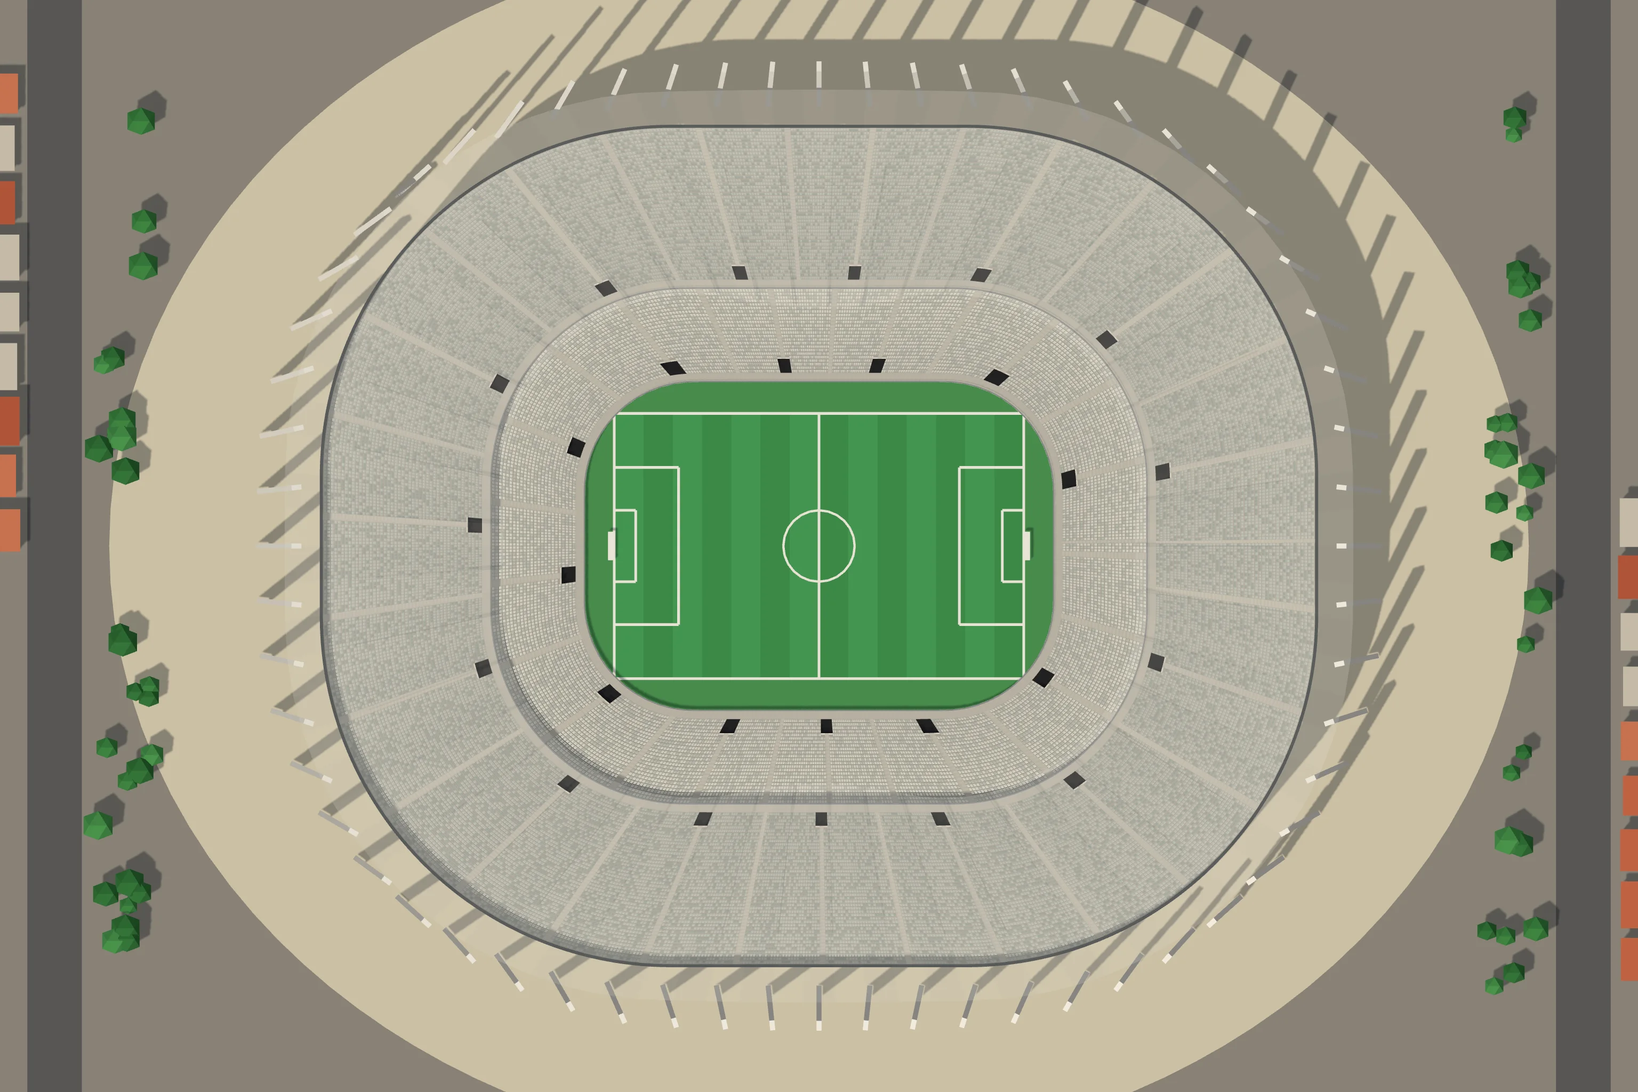
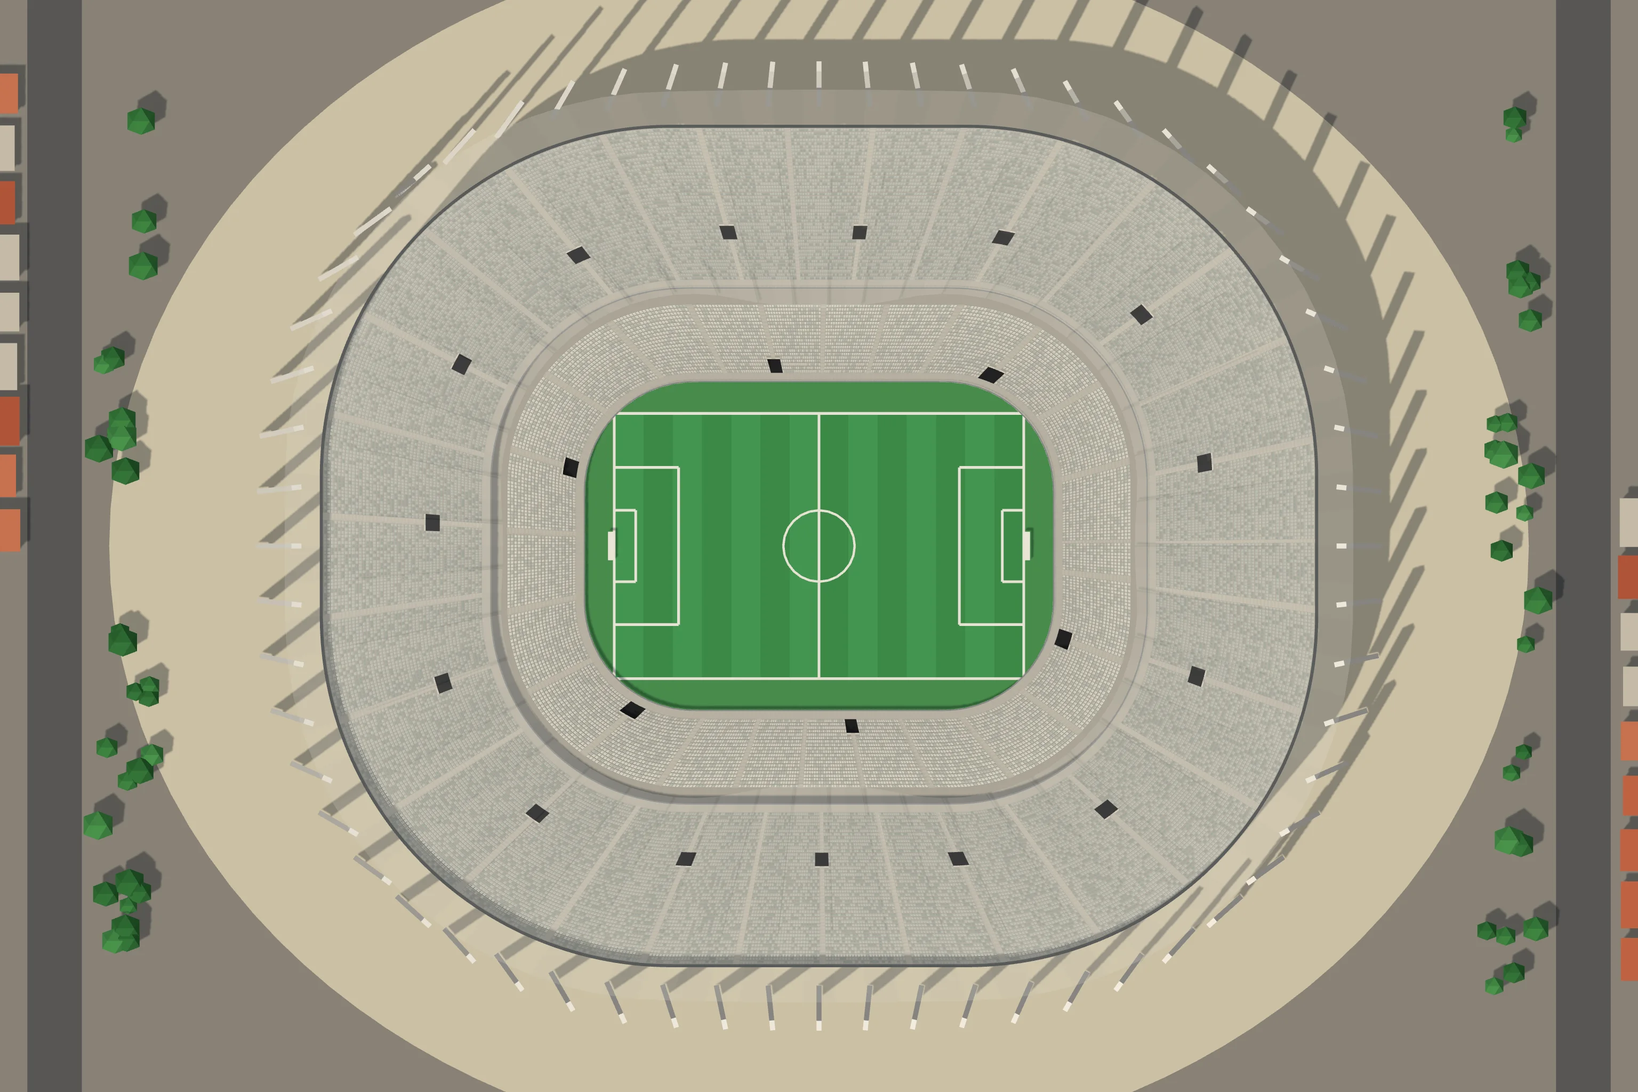
Arena da Baixada e Castelão: o lance de baixo é acessado por cima, pelo anel de circulação; bocas só no lance de cima
Claude-Session: https://claude.ai/code/session_019hwwMAyyP7ZAvyq6wYTetr

diff --git a/cenario3d/dados/estadios_cenas.js b/cenario3d/dados/estadios_cenas.js
@@ -16,7 +16,7 @@ window.__ESTADIOS = {
    "visitante": 3
   },
   "foto": {
-   "imagem": "img/cenas/estadio_castelao.webp?v=c75921e5",
+   "imagem": "img/cenas/estadio_castelao.webp?v=e406a82c",
    "mascara": "384;384;384;384;384;384;384;384;384;384;384;384;384;384;384;384;384;384;384;384;384;384;384;384;384;384;384;384;384;384;147,90,147;141,102,141;136,112,136;133,118,133;130,124,130;127,130,127;125,134,125;122,140,122;120,144,120;118,148,118;117,150,117;115,154,115;113,158,113;112,160,112;110,164,110;109,166,109;108,168,108;106,172,106;105,174,105;104,176,104;103,178,103;102,180,102;100,184,100;99,186,99;98,188,98;98,188,98;97,190,97;96,192,96;95,194,95;94,196,94;93,198,93;92,200,92;92,200,92;91,202,91;90,204,90;90,204,90;89,206,89;88,208,88;88,208,88;87,210,87;86,212,86;86,212,86;85,214,85;85,214,85;84,216,84;84,216,84;83,218,83;83,218,83;82,220,82;82,220,82;82,220,82;81,222,81;81,222,81;80,224,80;80,224,80;80,224,80;79,226,79;79,226,79;79,226,79;79,79,68,79,79;78,76,76,76,78;78,74,80,74,78;78,72,84,72,78;78,70,88,70,78;77,70,90,70,77;77,69,92,69,77;77,68,94,68,77;77,67,96,67,77;77,66,98,66,77;76,66,100,66,76;76,65,102,65,76;76,65,102,65,76;76,64,104,64,76;76,63,106,63,76;76,63,106,63,76;76,63,106,63,76;76,62,108,62,76;76,62,108,62,76;76,61,110,61,76;76,61,110,61,76;76,61,110,61,76;76,61,110,61,76;76,61,110,61,76;76,61,110,61,76;76,61,110,61,76;76,61,110,61,76;76,61,110,61,76;76,61,110,61,76;76,61,110,61,76;76,61,110,61,76;76,61,110,61,76;76,61,110,61,76;76,61,110,61,76;76,61,110,61,76;76,61,110,61,76;76,61,110,61,76;76,61,110,61,76;76,61,110,61,76;76,61,110,61,76;76,61,110,61,76;76,61,110,61,76;76,61,110,61,76;76,61,110,61,76;76,61,110,61,76;76,61,110,61,76;76,61,110,61,76;76,61,110,61,76;76,61,110,61,76;76,61,110,61,76;76,61,110,61,76;76,61,110,61,76;76,61,110,61,76;76,61,110,61,76;76,61,110,61,76;76,61,110,61,76;76,61,110,61,76;76,61,110,61,76;76,61,110,61,76;76,62,108,62,76;76,62,108,62,76;76,63,106,63,76;76,63,106,63,76;76,63,106,63,76;76,64,104,64,76;76,65,102,65,76;76,65,102,65,76;76,66,100,66,76;77,66,98,66,77;77,67,96,67,77;77,68,94,68,77;77,69,92,69,77;77,70,90,70,77;78,70,88,70,78;78,72,84,72,78;78,74,80,74,78;78,76,76,76,78;79,79,68,79,79;79,226,79;79,226,79;79,226,79;80,224,80;80,224,80;80,224,80;81,222,81;81,222,81;82,220,82;82,220,82;82,220,82;83,218,83;83,218,83;84,216,84;84,216,84;85,214,85;85,214,85;86,212,86;86,212,86;87,210,87;88,208,88;88,208,88;89,206,89;90,204,90;90,204,90;91,202,91;92,200,92;92,200,92;93,198,93;94,196,94;95,194,95;96,192,96;97,190,97;98,188,98;98,188,98;99,186,99;100,184,100;102,180,102;103,178,103;104,176,104;105,174,105;106,172,106;108,168,108;109,166,109;110,164,110;112,160,112;113,158,113;115,154,115;117,150,117;118,148,118;120,144,120;122,140,122;125,134,125;127,130,127;130,124,130;133,118,133;136,112,136;141,102,141;147,90,147;384;384;384;384;384;384;384;384;384;384;384;384;384;384;384;384;384;384;384;384;384;384;384;384;384;384;384;384;384;384"
   },
   "cena": {
@@ -135,11 +135,11 @@ window.__ESTADIOS = {
      "lado": "mandante",
      "raio": 40,
      "dir": [
-      -0.99,
-      0.11
+      -0.95,
+      -0.3
      ],
-     "x": 1068,
-     "y": 1078
+     "x": 1072,
+     "y": 878
     },
     {
      "id": "portao_visitante",
@@ -147,11 +147,11 @@ window.__ESTADIOS = {
      "lado": "visitante",
      "raio": 40,
      "dir": [
-      0.97,
-      -0.26
+      0.93,
+      0.36
      ],
-     "x": 2003,
-     "y": 900
+     "x": 1993,
+     "y": 1198
     }
    ],
    "pmPostos": [
@@ -4489,7 +4489,7 @@ window.__ESTADIOS = {
    "visitante": 3
   },
   "foto": {
-   "imagem": "img/cenas/estadio_arena_da_baixada.webp?v=a0515431",
+   "imagem": "img/cenas/estadio_arena_da_baixada.webp?v=d3104c48",
    "mascara": "384;384;384;384;384;384;384;384;384;384;384;384;384;384;384;384;384;384;384;384;384;384;384;384;384;384;384;384;384;384;118,148,118;112,160,112;109,166,109;106,172,106;103,178,103;101,182,101;99,186,99;97,190,97;95,194,95;94,196,94;92,200,92;91,202,91;90,204,90;88,208,88;87,210,87;86,212,86;85,214,85;84,216,84;83,218,83;82,220,82;82,220,82;81,222,81;80,224,80;79,226,79;79,226,79;78,228,78;77,230,77;77,230,77;76,232,76;76,232,76;75,234,75;75,234,75;74,236,74;74,236,74;73,238,73;73,238,73;72,240,72;72,240,72;72,240,72;71,242,71;71,242,71;71,242,71;71,242,71;70,51,142,51,70;70,49,146,49,70;70,47,150,47,70;70,46,152,46,70;69,46,154,46,69;69,45,156,45,69;69,44,158,44,69;69,44,158,44,69;69,43,160,43,69;69,43,160,43,69;69,43,160,43,69;69,42,162,42,69;69,42,162,42,69;69,42,162,42,69;69,42,162,42,69;69,42,162,42,69;69,42,162,42,69;69,42,162,42,69;69,42,162,42,69;69,42,162,42,69;69,42,162,42,69;69,42,162,42,69;69,42,162,42,69;69,42,162,42,69;69,42,162,42,69;69,42,162,42,69;69,42,162,42,69;69,42,162,42,69;69,42,162,42,69;69,42,162,42,69;69,42,162,42,69;69,42,162,42,69;69,42,162,42,69;69,42,162,42,69;69,42,162,42,69;69,42,162,42,69;69,42,162,42,69;69,42,162,42,69;69,42,162,42,69;69,42,162,42,69;69,42,162,42,69;69,42,162,42,69;69,42,162,42,69;69,42,162,42,69;69,42,162,42,69;69,42,162,42,69;69,42,162,42,69;69,42,162,42,69;69,42,162,42,69;69,42,162,42,69;69,42,162,42,69;69,42,162,42,69;69,42,162,42,69;69,42,162,42,69;69,42,162,42,69;69,42,162,42,69;69,42,162,42,69;69,42,162,42,69;69,42,162,42,69;69,42,162,42,69;69,42,162,42,69;69,42,162,42,69;69,42,162,42,69;69,42,162,42,69;69,42,162,42,69;69,42,162,42,69;69,42,162,42,69;69,42,162,42,69;69,42,162,42,69;69,42,162,42,69;69,42,162,42,69;69,42,162,42,69;69,42,162,42,69;69,42,162,42,69;69,42,162,42,69;69,42,162,42,69;69,42,162,42,69;69,42,162,42,69;69,42,162,42,69;69,42,162,42,69;69,42,162,42,69;69,42,162,42,69;69,42,162,42,69;69,42,162,42,69;69,42,162,42,69;69,42,162,42,69;69,42,162,42,69;69,42,162,42,69;69,42,162,42,69;69,42,162,42,69;69,42,162,42,69;69,42,162,42,69;69,42,162,42,69;69,42,162,42,69;69,42,162,42,69;69,42,162,42,69;69,42,162,42,69;69,42,162,42,69;69,42,162,42,69;69,43,160,43,69;69,43,160,43,69;69,43,160,43,69;69,44,158,44,69;69,44,158,44,69;69,45,156,45,69;69,46,154,46,69;70,46,152,46,70;70,47,150,47,70;70,49,146,49,70;70,51,142,51,70;71,242,71;71,242,71;71,242,71;71,242,71;72,240,72;72,240,72;72,240,72;73,238,73;73,238,73;74,236,74;74,236,74;75,234,75;75,234,75;76,232,76;76,232,76;77,230,77;77,230,77;78,228,78;79,226,79;79,226,79;80,224,80;81,222,81;82,220,82;82,220,82;83,218,83;84,216,84;85,214,85;86,212,86;87,210,87;88,208,88;90,204,90;91,202,91;92,200,92;94,196,94;95,194,95;97,190,97;99,186,99;101,182,101;103,178,103;106,172,106;109,166,109;112,160,112;118,148,118;384;384;384;384;384;384;384;384;384;384;384;384;384;384;384;384;384;384;384;384;384;384;384;384;384;384;384;384;384;384"
   },
   "cena": {
@@ -4608,11 +4608,11 @@ window.__ESTADIOS = {
      "lado": "mandante",
      "raio": 40,
      "dir": [
-      0.98,
-      -0.19
+      1,
+      0
      ],
-     "x": 2219,
-     "y": 900
+     "x": 2493,
+     "y": 1024
     },
     {
      "id": "portao_visitante",
@@ -4620,11 +4620,11 @@ window.__ESTADIOS = {
      "lado": "visitante",
      "raio": 40,
      "dir": [
-      -0.85,
-      0.53
+      -0.87,
+      0.5
      ],
-     "x": 878,
-     "y": 1438
+     "x": 627,
+     "y": 1549
     }
    ],
    "pmPostos": [

diff --git a/cenario3d/planta.html b/cenario3d/planta.html
@@ -289,24 +289,24 @@ button:focus-visible, input:focus-visible { outline: 2px solid var(--selecao); o
 
 <script type="module">
 import * as THREE from 'https://cdn.jsdelivr.net/npm/three@0.160.0/build/three.module.min.js';
-import { planoDaCasa, montarCasa, juntarBlocos, lugarDoDecalque, placasDoLote, segmentosDoMuro, carrosDoEstacionamento, portaoDoEstacionamento } from './js/casas3d.js?v=4a961c6d5b';
-import { montarModelos } from './js/modelos3d.js?v=4a961c6d5b';
-import { moldeDaPeca, comTransformador } from './js/props3d.js?v=4a961c6d5b';
-import { ATLAS } from './js/modelos_atlas.js?v=4a961c6d5b';
-import { Construtor, sorteio } from './js/construtor3d.js?v=4a961c6d5b';
-import { gerarProposta, MAPAS, MAPA_DO_PORTE, RUA, LONGE_DO_ESTADIO_M, cisaoDaPraca, VAO_CIDADES_M, PRAIA_A_MAIS } from './js/proposta.js?v=4a961c6d5b';
-import { montarSede, nivelQueCabe } from './js/sede3d.js?v=4a961c6d5b';
-import { onibus as onibusDetalhe, juntar as juntarDetalhe } from './js/detalhe3d.js?v=4a961c6d5b';
-import { montarLoteDeVeraneio, plantaDoLote, festaNoMundo, noMundoDoLote, cenaDaFesta, detalheDaCasaDaFesta } from './js/veraneio3d.js?v=4a961c6d5b';
-import { montarCaravana, cenaDaCaravana } from './js/caravana3d.js?v=4a961c6d5b';
-import { montarEstacao, montarTunel, montarCarro, TREM } from './js/metro3d.js?v=4a961c6d5b';
-import { montarShopping, montarDelegacia, montarPraca, montarIgreja, montarEscola, montarHospital } from './js/equip3d.js?v=4a961c6d5b';
-import { montarEquipAntigo, TIPOS_ANTIGOS } from './js/equip_antigo3d.js?v=4a961c6d5b';
-import { PECAS_PRAIA, montarPecaDaPraia } from './js/praia3d.js?v=4a961c6d5b';
-import { ESPECIES_LP, FLORA_LP, montarArvoreLowpoly, montarAsDez, facesDaArvore, especieLowpolyDe } from './js/arvores_lowpoly.js?v=4a961c6d5b';
-import { plantarMato, montarMato, LONGE_M, DENSIDADE, LADRILHO_M } from './js/mato3d.js?v=4a961c6d5b';
-import { ESTADIOS_JOGO, montarEstadioJogo, glbDoEstadio, cortarEstadio, plantaDoEstadio, modeloDaLotacao, nomeDoLetreiro, nomeComAcento, marcaDoEstadio, BOCAS_DOS_PORTOES, BILHETERIAS_DA_RUA } from './js/estadios3d.js?v=4a961c6d5b';
-import { PECAS_AMBULANTES, montarAmbulante } from './js/ambulantes3d.js?v=4a961c6d5b';
+import { planoDaCasa, montarCasa, juntarBlocos, lugarDoDecalque, placasDoLote, segmentosDoMuro, carrosDoEstacionamento, portaoDoEstacionamento } from './js/casas3d.js?v=d539b5da61';
+import { montarModelos } from './js/modelos3d.js?v=d539b5da61';
+import { moldeDaPeca, comTransformador } from './js/props3d.js?v=d539b5da61';
+import { ATLAS } from './js/modelos_atlas.js?v=d539b5da61';
+import { Construtor, sorteio } from './js/construtor3d.js?v=d539b5da61';
+import { gerarProposta, MAPAS, MAPA_DO_PORTE, RUA, LONGE_DO_ESTADIO_M, cisaoDaPraca, VAO_CIDADES_M, PRAIA_A_MAIS } from './js/proposta.js?v=d539b5da61';
+import { montarSede, nivelQueCabe } from './js/sede3d.js?v=d539b5da61';
+import { onibus as onibusDetalhe, juntar as juntarDetalhe } from './js/detalhe3d.js?v=d539b5da61';
+import { montarLoteDeVeraneio, plantaDoLote, festaNoMundo, noMundoDoLote, cenaDaFesta, detalheDaCasaDaFesta } from './js/veraneio3d.js?v=d539b5da61';
+import { montarCaravana, cenaDaCaravana } from './js/caravana3d.js?v=d539b5da61';
+import { montarEstacao, montarTunel, montarCarro, TREM } from './js/metro3d.js?v=d539b5da61';
+import { montarShopping, montarDelegacia, montarPraca, montarIgreja, montarEscola, montarHospital } from './js/equip3d.js?v=d539b5da61';
+import { montarEquipAntigo, TIPOS_ANTIGOS } from './js/equip_antigo3d.js?v=d539b5da61';
+import { PECAS_PRAIA, montarPecaDaPraia } from './js/praia3d.js?v=d539b5da61';
+import { ESPECIES_LP, FLORA_LP, montarArvoreLowpoly, montarAsDez, facesDaArvore, especieLowpolyDe } from './js/arvores_lowpoly.js?v=d539b5da61';
+import { plantarMato, montarMato, LONGE_M, DENSIDADE, LADRILHO_M } from './js/mato3d.js?v=d539b5da61';
+import { ESTADIOS_JOGO, montarEstadioJogo, glbDoEstadio, cortarEstadio, plantaDoEstadio, modeloDaLotacao, nomeDoLetreiro, nomeComAcento, marcaDoEstadio, BOCAS_DOS_PORTOES, BILHETERIAS_DA_RUA } from './js/estadios3d.js?v=d539b5da61';
+import { PECAS_AMBULANTES, montarAmbulante } from './js/ambulantes3d.js?v=d539b5da61';
 
 const $ = id => document.getElementById(id);
 const aviso = $('aviso');
@@ -323,25 +323,25 @@ function carregarScript(src) {
 }
 window.TO = window.TO || { dados: {} };
 try {
-  await carregarScript('dados/torcidas.js?v=4a961c6d5b');
-  await carregarScript('dados/times.js?v=4a961c6d5b');
-  await carregarScript('dados/cena_estadio.js?v=4a961c6d5b');
-  await carregarScript('dados/cidades.js?v=4a961c6d5b');
-  await carregarScript('dados/estadios.js?v=4a961c6d5b');
-  await carregarScript('dados/escudos.js?v=4a961c6d5b');
+  await carregarScript('dados/torcidas.js?v=d539b5da61');
+  await carregarScript('dados/times.js?v=d539b5da61');
+  await carregarScript('dados/cena_estadio.js?v=d539b5da61');
+  await carregarScript('dados/cidades.js?v=d539b5da61');
+  await carregarScript('dados/estadios.js?v=d539b5da61');
+  await carregarScript('dados/escudos.js?v=d539b5da61');
   /* o manifesto das faixas de verdade (a arte do dono, 29/09/2026): a arquibancada estende a da torcida */
-  await carregarScript('dados/faixas.js?v=4a961c6d5b').catch(() => {});
+  await carregarScript('dados/faixas.js?v=d539b5da61').catch(() => {});
   /* O DOMÍNIO DOS BAIRROS (o dono, 30/09/2026): as sedes repetidas num
      bairro saem espalhadas (nos dados, na carga) e os bares ganham o
      bairro deles — o mesmo módulo do jogo (js/mundo/dominio.js) */
-  await carregarScript('js/dominio.js?v=4a961c6d5b').catch(() => {});
+  await carregarScript('js/dominio.js?v=d539b5da61').catch(() => {});
 } catch (e) {
   aviso.textContent = 'A planta da cidade não carregou (' + e.message + '). Recarregue a página.';
   throw e;
 }
 /* os PNG dos escudos, embutidos (o montar.sh gera): sem o arquivo, o
    caminho vai direto pra img/escudos/ */
-await carregarScript('dados/escudos_embutidos.js?v=4a961c6d5b').catch(() => {});
+await carregarScript('dados/escudos_embutidos.js?v=d539b5da61').catch(() => {});
 const P = TO.dados.plantaEstadio, K = P.CIDADE, M = P.METRO, CALC = K.CALC;
 /* o mapa da vez (o pequeno, o médio ou o grande, montado pra praça
    escolhida): quem monta é usarMapa, lá embaixo */

diff --git a/cenario3d/js/jogo2d.js b/cenario3d/js/jogo2d.js
@@ -17,7 +17,7 @@
    cartão da partida cai perto da hora da bola e nada do que conta o
    placar passa na frente dele.
    ========================================================= */
-import { CASCA } from './jogo_casca.js?v=4a961c6d5b';
+import { CASCA } from './jogo_casca.js?v=d539b5da61';
 
 const carregarScript = src => new Promise((ok, erro) => {
   const s = document.createElement('script');
@@ -31,17 +31,17 @@ async function montarJogo() {
   caixa.innerHTML = CASCA;
   while (caixa.firstChild) document.body.appendChild(caixa.firstChild);
   /* os escudos, as fotos das praças e as bandeiras embutidos (o `IMG()` do jogo procura aqui antes do caminho) */
-  await carregarScript('dados/imagens_jogo.js?v=4a961c6d5b').catch(() => {});
+  await carregarScript('dados/imagens_jogo.js?v=d539b5da61').catch(() => {});
   /* os estádios low-poly das cenas (ferramentas/estadios/assar.js): antes do jogo, que monta as cenas quando carrega */
-  await carregarScript('dados/estadios_cenas.js?v=4a961c6d5b').catch(() => {});
+  await carregarScript('dados/estadios_cenas.js?v=d539b5da61').catch(() => {});
   /* sem o rolo do feed: a tela entre os jogos é o portal */
   window.TO = window.TO || {};
   TO.semFeed = true;
-  await carregarScript('js/jogo.js?v=4a961c6d5b');
-  await carregarScript('js/portal.js?v=4a961c6d5b').catch(err => console.error('o portal não carregou:', err));
+  await carregarScript('js/jogo.js?v=d539b5da61');
+  await carregarScript('js/portal.js?v=d539b5da61').catch(err => console.error('o portal não carregou:', err));
   /* o boneco das cenas de imagem (os dois níveis afinados, em base64) */
-  if (!TO.dados.bonecoPertoGLB) await carregarScript('dados/boneco_glb.js?v=4a961c6d5b').catch(() => {});
-  await import('./bonecos3_global.js?v=4a961c6d5b').catch(err => console.error('o boneco das cenas não carregou:', err));
+  if (!TO.dados.bonecoPertoGLB) await carregarScript('dados/boneco_glb.js?v=d539b5da61').catch(() => {});
+  await import('./bonecos3_global.js?v=d539b5da61').catch(err => console.error('o boneco das cenas não carregou:', err));
   ligar();
 }
 

diff --git a/cenario3d/jogo.html b/cenario3d/jogo.html
@@ -9,16 +9,16 @@
 <link rel="preconnect" href="https://fonts.googleapis.com">
 <link rel="preconnect" href="https://fonts.gstatic.com" crossorigin>
 <link rel="stylesheet" href="https://fonts.googleapis.com/css2?family=Barlow+Semi+Condensed:wght@500;600;700&family=Barlow:wght@400;500;600&family=IBM+Plex+Mono:wght@400;500&display=swap">
-<link rel="stylesheet" href="css/jogo.css?v=4a961c6d5b">
-<link rel="stylesheet" href="css/jogo3d.css?v=4a961c6d5b">
-<link rel="stylesheet" href="css/portal.css?v=4a961c6d5b">
-<link rel="stylesheet" href="css/telas3d.css?v=4a961c6d5b">
+<link rel="stylesheet" href="css/jogo.css?v=d539b5da61">
+<link rel="stylesheet" href="css/jogo3d.css?v=d539b5da61">
+<link rel="stylesheet" href="css/portal.css?v=d539b5da61">
+<link rel="stylesheet" href="css/telas3d.css?v=d539b5da61">
 <style>
 [hidden] { display: none !important; }
 html, body { height: 100%; margin: 0; }
 </style>
 </head>
 <body class="jogo3d">
-<script type="module" src="js/jogo2d.js?v=4a961c6d5b"></script>
+<script type="module" src="js/jogo2d.js?v=d539b5da61"></script>
 </body>
 </html>

diff --git a/cenario3d/js/casas3d.js b/cenario3d/js/casas3d.js
@@ -60,10 +60,10 @@
    avançam (`rec`), e o letreiro, a pixação e a falha de reboco do
    bairro vão pro plano dessa parede, não pro da divisa.
    ========================================================= */
-import { Construtor, METRO, mureta, toldo, arSplit, sorteio } from './construtor3d.js?v=4a961c6d5b';
-import { ATLAS } from './modelos_atlas.js?v=4a961c6d5b';
+import { Construtor, METRO, mureta, toldo, arSplit, sorteio } from './construtor3d.js?v=d539b5da61';
+import { ATLAS } from './modelos_atlas.js?v=d539b5da61';
 /* as lojas do assalto (lojas3d.js): modelos de lote como os outros */
-import { TIPOS_LOJA, REC_LOJA, placaDaLoja } from './lojas3d.js?v=4a961c6d5b';
+import { TIPOS_LOJA, REC_LOJA, placaDaLoja } from './lojas3d.js?v=d539b5da61';
 
 /* o arquivo de cada folha, pro bairro montar o material dele */
 export const arquivoDaFolha = folha => ATLAS[folha].arquivo;

diff --git a/cenario3d/js/ambulantes3d.js b/cenario3d/js/ambulantes3d.js
@@ -27,8 +27,8 @@
    que a planta acha o lugar dela na calçada do estádio. `sol`: o meio e
    o raio da copa ([x, z, r]), que o mapa desenha de perto.
    ========================================================= */
-import { Construtor, noMundo, placasNoMundo, sorteio, esfera, unit } from './construtor3d.js?v=4a961c6d5b';
-import { Lugar, barra, tubo, cilindro, bloco, pano, toro, guardaSol, cadeiraPlastica, isopor, banqueta, CORES_SOL } from './praia3d.js?v=4a961c6d5b';
+import { Construtor, noMundo, placasNoMundo, sorteio, esfera, unit } from './construtor3d.js?v=d539b5da61';
+import { Lugar, barra, tubo, cilindro, bloco, pano, toro, guardaSol, cadeiraPlastica, isopor, banqueta, CORES_SOL } from './praia3d.js?v=d539b5da61';
 
 const AQUI = Lugar();
 const escolha = (rnd, lista) => lista[Math.floor(rnd() * lista.length) % lista.length];

diff --git a/cenario3d/js/praia3d.js b/cenario3d/js/praia3d.js
@@ -36,8 +36,8 @@
    cadeira e a mesa de plástico) servem também os ambulantes da porta do
    estádio (ambulantes3d.js), na mesma folha.
    ========================================================= */
-import { Construtor, METRO, lerp, sub, soma, esc, unit, pv, noMundo, placasNoMundo, sorteio, varrer, esfera } from './construtor3d.js?v=4a961c6d5b';
-import { montarArvoreLowpoly } from './arvores_lowpoly.js?v=4a961c6d5b';
+import { Construtor, METRO, lerp, sub, soma, esc, unit, pv, noMundo, placasNoMundo, sorteio, varrer, esfera } from './construtor3d.js?v=d539b5da61';
+import { montarArvoreLowpoly } from './arvores_lowpoly.js?v=d539b5da61';
 
 const ALTO = [0, 1, 0];
 const escolha = (rnd, lista) => lista[Math.floor(rnd() * lista.length) % lista.length];

diff --git a/cenario3d/js/modelos3d.js b/cenario3d/js/modelos3d.js
@@ -32,8 +32,8 @@
    requadro da janela, toldo, ar-condicionado. O resto é pintura.
    ========================================================= */
 import * as THREE from 'https://cdn.jsdelivr.net/npm/three@0.160.0/build/three.module.min.js';
-import { ATLAS } from './modelos_atlas.js?v=4a961c6d5b';
-import { Construtor, METRO, lerp, sub, soma, esc, pv, pe, unit, recuoPoligono, mureta, toldo, arSplit } from './construtor3d.js?v=4a961c6d5b';
+import { ATLAS } from './modelos_atlas.js?v=d539b5da61';
+import { Construtor, METRO, lerp, sub, soma, esc, pv, pe, unit, recuoPoligono, mureta, toldo, arSplit } from './construtor3d.js?v=d539b5da61';
 
 /* =======================================================
    1. A IGREJA MATRIZ

diff --git a/cenario3d/js/props3d.js b/cenario3d/js/props3d.js
@@ -26,8 +26,8 @@
    poste vira uma haste de longe; o resto, que é miúdo, some.
    ========================================================= */
 import * as THREE from 'https://cdn.jsdelivr.net/npm/three@0.160.0/build/three.module.min.js';
-import { ATLAS } from './modelos_atlas.js?v=4a961c6d5b';
-import { Construtor, METRO, lerp } from './construtor3d.js?v=4a961c6d5b';
+import { ATLAS } from './modelos_atlas.js?v=d539b5da61';
+import { Construtor, METRO, lerp } from './construtor3d.js?v=d539b5da61';
 
 /* as cores que o vértice dá pro que sai claro na folha */
 const COR_CESTO = ['#6aa33a', '#d2b53a', '#3f82ad', '#8b6a3c', '#b8452f'];

diff --git a/cenario3d/js/mato3d.js b/cenario3d/js/mato3d.js
@@ -19,8 +19,8 @@
 
    Tudo em metros; `noMundo` converte. A mesma semente dá o mesmo mato.
    ========================================================= */
-import { METRO, noMundo, sorteio } from './construtor3d.js?v=4a961c6d5b';
-import { facesDaArvore, especieLowpolyDe } from './arvores_lowpoly.js?v=4a961c6d5b';
+import { METRO, noMundo, sorteio } from './construtor3d.js?v=d539b5da61';
+import { facesDaArvore, especieLowpolyDe } from './arvores_lowpoly.js?v=d539b5da61';
 
 /* a área de chão de cada árvore (m²), por lugar */
 export const DENSIDADE = { mata: 70, cerrado: 200, caatinga: 150, sul: 90, praia: 120, cidade: 250 };

diff --git a/cenario3d/js/bonecos3_global.js b/cenario3d/js/bonecos3_global.js
@@ -14,7 +14,7 @@
    DOMContentLoaded: quem usa (a ponte, numa cena aberta pelo jogador)
    chega muito depois.
    ========================================================= */
-import { montar, desenharDeCima, desenharVitrine, limparDeCima, fotoDoTrofeu, fotoDaBriga, fotoDaCena, perdeu, bonecos } from './bonecos3_cena.js?v=4a961c6d5b';
+import { montar, desenharDeCima, desenharVitrine, limparDeCima, fotoDoTrofeu, fotoDaBriga, fotoDaCena, perdeu, bonecos } from './bonecos3_cena.js?v=d539b5da61';
 
 window.TO = window.TO || {};
 TO.diaJogo = TO.diaJogo || {};

diff --git a/cenario3d/js/bonecos3_cena.js b/cenario3d/js/bonecos3_cena.js
@@ -103,7 +103,7 @@
       numa fase sorteada (quem sai junto não sai no mesmo pé).
    ========================================================= */
 import * as THREE from 'https://cdn.jsdelivr.net/npm/three@0.160.0/build/three.module.min.js';
-import { GLTFLoader, SkeletonUtils } from './GLTFLoader.js?v=4a961c6d5b';
+import { GLTFLoader, SkeletonUtils } from './GLTFLoader.js?v=d539b5da61';
 
 /* onde o modelo mora, quando não vem embutido em base64: o detalhado
    (o do Blender) e os dois níveis afinados dele (ferramentas/afinar_boneco.mjs) */
